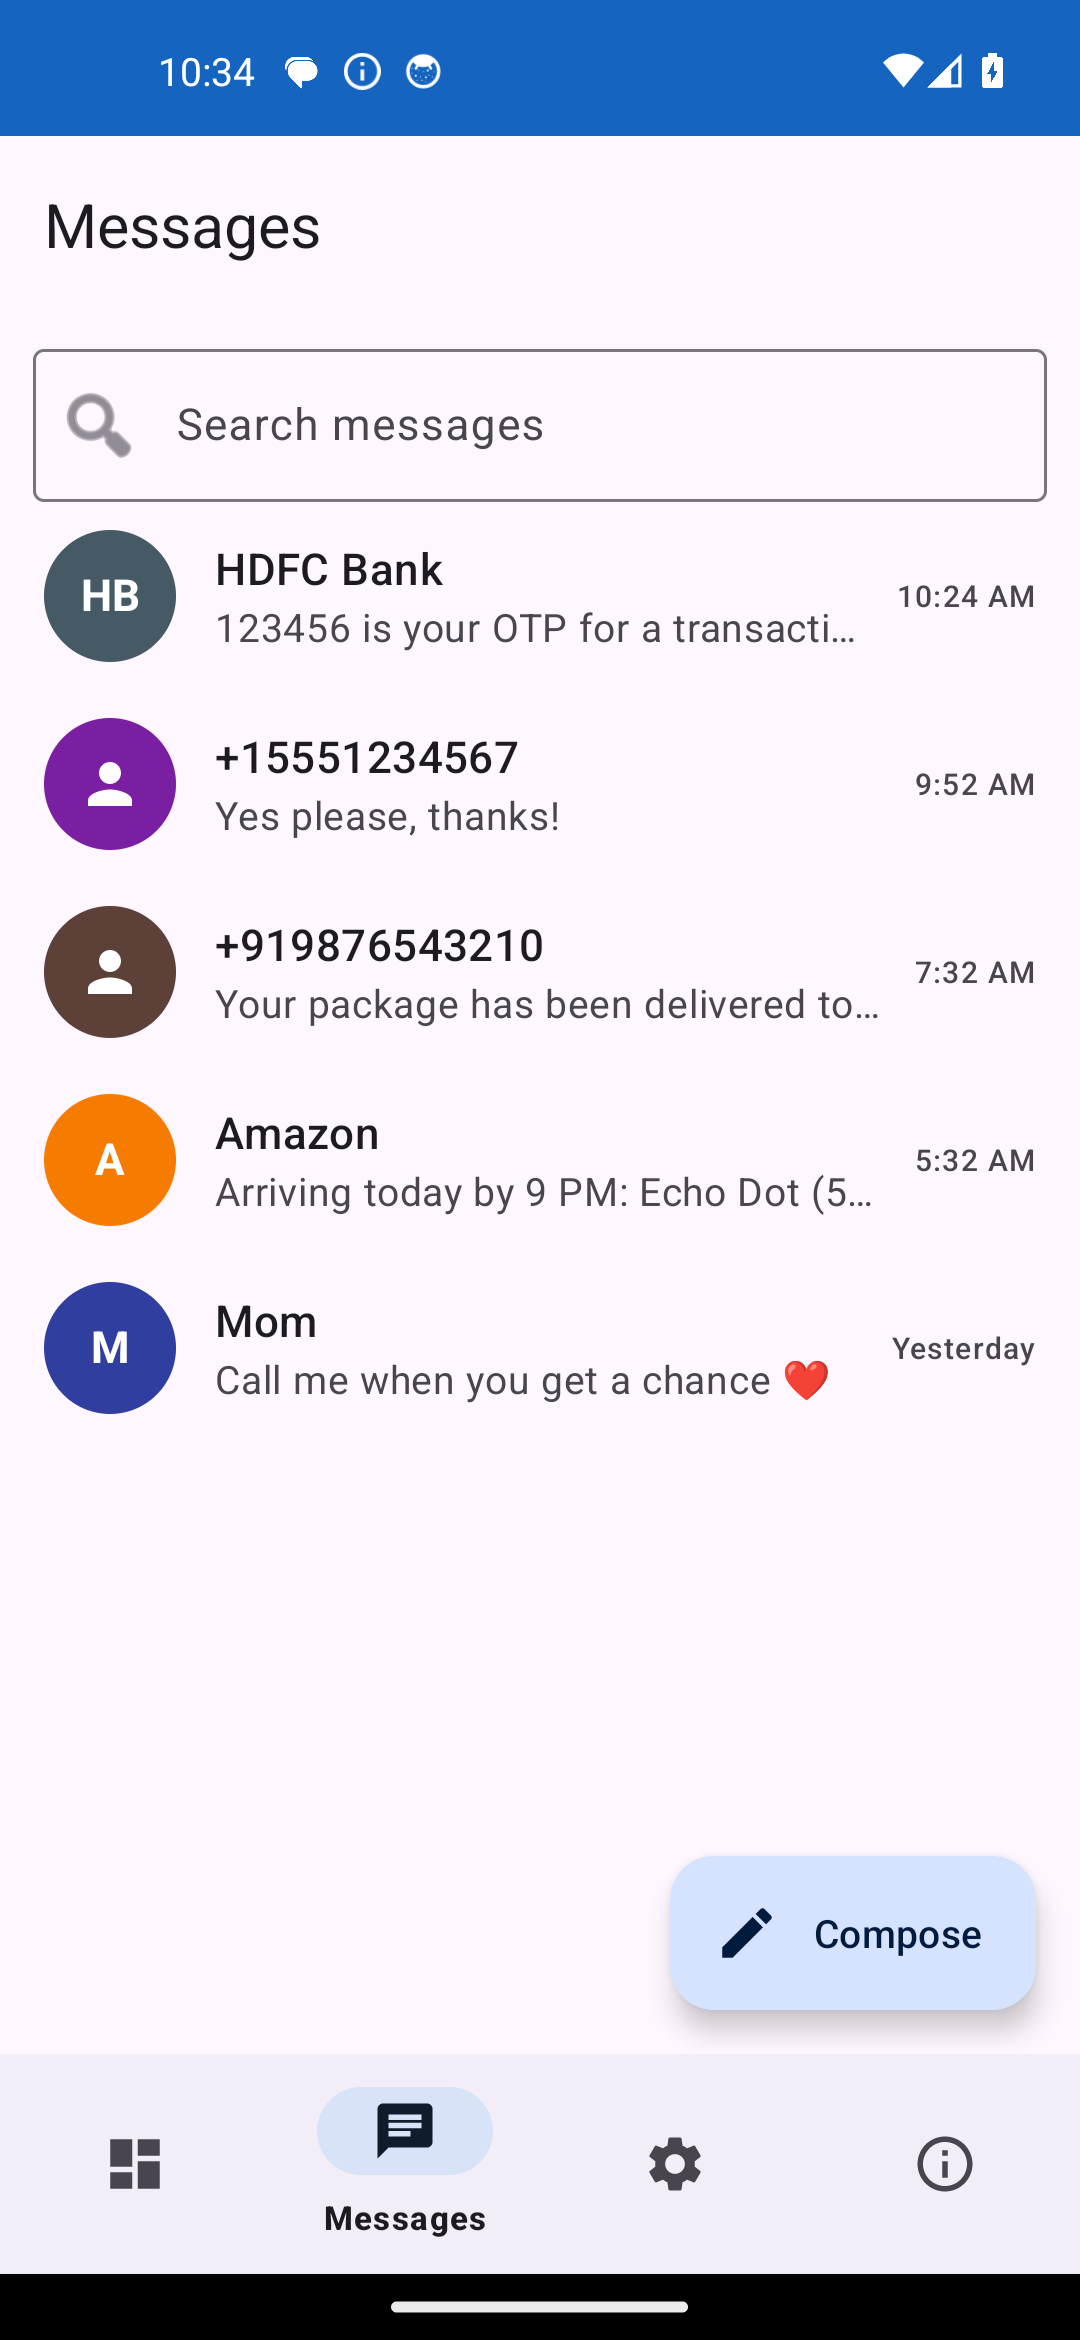
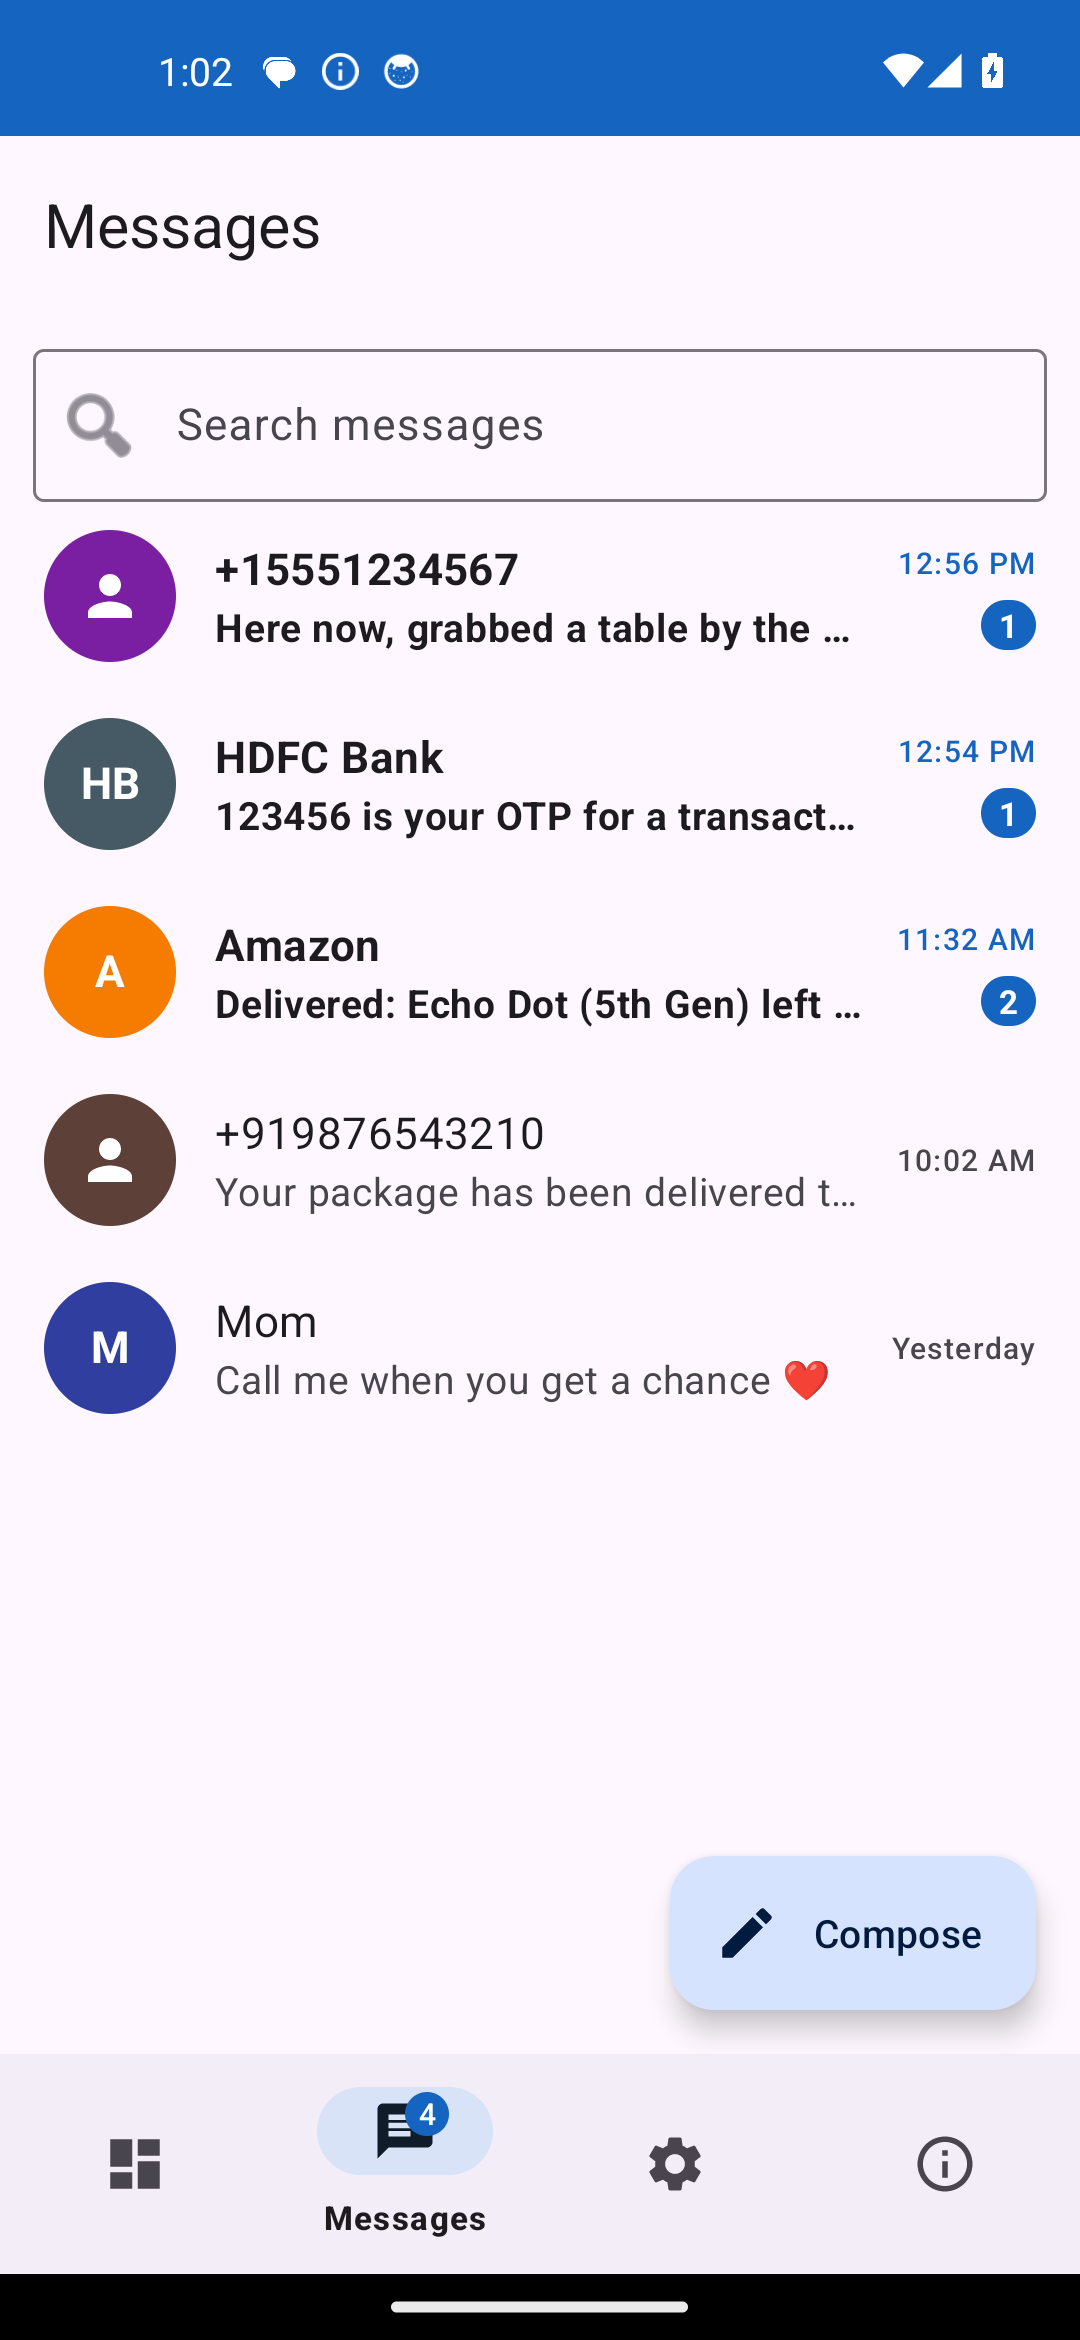
Read/unread state + further chat polish
- Track a read flag per message (DB v3→v4). Unread conversations show bold with
  a count badge and an accent timestamp; the Messages tab carries a total-unread
  badge. Opening a chat marks it read.
- Chat screen polish: a rounded filled compose field with a circular send button
  (replacing the outlined box), width-capped bubbles, and tighter same-sender
  grouping with more air on sender changes.

DAO gains markRead/totalUnread + unread in the conversation summary, with tests;
MigrationTest covers v3→v4. Bumps ippu to v1.18 (19).

diff --git a/app/src/main/kotlin/com/noti/logger/ui/ChatActivity.kt b/app/src/main/kotlin/com/noti/logger/ui/ChatActivity.kt
@@ -88,7 +88,7 @@ class ChatActivity : AppCompatActivity() {
     }
 
     private fun sendComposed() {
-        val field = findViewById<com.google.android.material.textfield.TextInputEditText>(R.id.et_compose)
+        val field = findViewById<android.widget.EditText>(R.id.et_compose)
         val text = field.text?.toString()?.trim().orEmpty()
         if (text.isEmpty()) return
         if (!NotiCommandSender.isConfigured(Settings.get(this))) {
@@ -119,7 +119,10 @@ class ChatActivity : AppCompatActivity() {
     private fun load() {
         lifecycleScope.launch {
             val messages = withContext(Dispatchers.IO) {
-                NotiDatabase.get(this@ChatActivity).relayedMessageDao().messagesFor(sender)
+                val dao = NotiDatabase.get(this@ChatActivity).relayedMessageDao()
+                val msgs = dao.messagesFor(sender)
+                dao.markRead(sender) // viewing the conversation clears its unread state
+                msgs
             }
             adapter.submit(messages)
             if (highlightId > 0) {
@@ -257,18 +260,31 @@ class ChatActivity : AppCompatActivity() {
         override fun onBindViewHolder(holder: RecyclerView.ViewHolder, position: Int) {
             when (val row = rows[position]) {
                 is Row.Day -> (holder as DayVH).date.text = row.label
-                is Row.Msg -> bindMessage(holder as MessageVH, row.message)
+                is Row.Msg -> {
+                    val prev = rows.getOrNull(position - 1)
+                    val grouped = prev is Row.Msg && prev.message.outgoing == row.message.outgoing
+                    bindMessage(holder as MessageVH, row.message, grouped)
+                }
             }
         }
     }
 
-    private fun bindMessage(holder: MessageVH, m: RelayedMessageEntity) {
+    private fun bindMessage(holder: MessageVH, m: RelayedMessageEntity, groupedWithPrev: Boolean) {
         val outgoing = m.outgoing != 0
         holder.body.text = m.body
         holder.time.text = ChatTime.clock(this, m.receivedAt)
         holder.bubble.setBackgroundResource(if (outgoing) R.drawable.bubble_out else R.drawable.bubble_in)
         (holder.bubble.layoutParams as FrameLayout.LayoutParams).gravity =
             if (outgoing) Gravity.END else Gravity.START
+
+        // Cap the bubble to ~80% of the screen (LinearLayout ignores maxWidth, so bound the text).
+        val metrics = resources.displayMetrics
+        holder.body.maxWidth = (metrics.widthPixels * 0.80f).toInt() - (28f * metrics.density).toInt()
+
+        // Tighter spacing within a run from the same side, more air when the side changes.
+        val h = (12f * metrics.density).toInt()
+        val topGap = ((if (groupedWithPrev) 2f else 8f) * metrics.density).toInt()
+        holder.itemView.setPadding(h, topGap, h, (2f * metrics.density).toInt())
 
         // On the accent outgoing bubble, text is white; incoming uses on-surface tones.
         val bodyColor = MaterialColors.getColor(

diff --git a/app/src/main/kotlin/com/noti/logger/ui/MessagesFragment.kt b/app/src/main/kotlin/com/noti/logger/ui/MessagesFragment.kt
@@ -1,12 +1,14 @@
 package com.noti.logger.ui
 
 import android.content.Intent
+import android.graphics.Typeface
 import android.os.Bundle
 import android.view.LayoutInflater
 import android.view.View
 import android.view.ViewGroup
 import android.widget.ImageView
 import android.widget.TextView
+import com.google.android.material.color.MaterialColors
 import androidx.core.widget.doAfterTextChanged
 import androidx.fragment.app.Fragment
 import androidx.lifecycle.lifecycleScope
@@ -81,10 +83,29 @@ class MessagesFragment : Fragment(R.layout.fragment_messages) {
 
         override fun onBindViewHolder(holder: ConversationVH, position: Int) {
             val c = items[position]
+            val ctx = holder.itemView.context
             holder.sender.text = c.sender
             holder.last.text = c.lastBody
-            holder.time.text = ChatTime.listStamp(holder.itemView.context, c.lastAt)
+            holder.time.text = ChatTime.listStamp(ctx, c.lastAt)
             Avatars.apply(holder.avatar, holder.avatarInitials, holder.avatarIcon, c.sender)
+
+            // Signal-style: an unread conversation gets a bold name, a darker preview, an accent
+            // timestamp, and a count badge; a read one is quieter.
+            val unread = c.unread > 0
+            holder.sender.setTypeface(null, if (unread) Typeface.BOLD else Typeface.NORMAL)
+            holder.last.setTypeface(null, if (unread) Typeface.BOLD else Typeface.NORMAL)
+            val onSurface = MaterialColors.getColor(holder.last, com.google.android.material.R.attr.colorOnSurface)
+            val onSurfaceVariant = MaterialColors.getColor(holder.last, com.google.android.material.R.attr.colorOnSurfaceVariant)
+            val accent = MaterialColors.getColor(holder.time, com.google.android.material.R.attr.colorPrimary)
+            holder.last.setTextColor(if (unread) onSurface else onSurfaceVariant)
+            holder.time.setTextColor(if (unread) accent else onSurfaceVariant)
+            if (unread) {
+                holder.unread.visibility = View.VISIBLE
+                holder.unread.text = if (c.unread > 99) "99+" else c.unread.toString()
+            } else {
+                holder.unread.visibility = View.GONE
+            }
+
             holder.itemView.setOnClickListener { onClick(c.sender) }
         }
     }
@@ -93,6 +114,7 @@ class MessagesFragment : Fragment(R.layout.fragment_messages) {
         val sender: TextView = v.findViewById(R.id.txt_sender)
         val last: TextView = v.findViewById(R.id.txt_last)
         val time: TextView = v.findViewById(R.id.txt_time)
+        val unread: TextView = v.findViewById(R.id.txt_unread)
         val avatar: View = v.findViewById(R.id.avatar)
         val avatarInitials: TextView = v.findViewById(R.id.avatar_initials)
         val avatarIcon: ImageView = v.findViewById(R.id.avatar_icon)

diff --git a/app/src/main/kotlin/com/noti/logger/data/RelayedMessageDao.kt b/app/src/main/kotlin/com/noti/logger/data/RelayedMessageDao.kt
@@ -10,13 +10,14 @@ interface RelayedMessageDao {
     @Insert
     fun insert(message: RelayedMessageEntity): Long
 
-    /** One row per conversation: sender, its latest message body/time, and message count. */
+    /** One row per conversation: sender, its latest message body/time, total count, and unread count. */
     @Query(
         """
         SELECT m.sender AS sender,
                (SELECT body FROM relayed_messages i WHERE i.sender = m.sender ORDER BY receivedAt DESC, id DESC LIMIT 1) AS lastBody,
                MAX(m.receivedAt) AS lastAt,
-               COUNT(*) AS count
+               COUNT(*) AS count,
+               SUM(CASE WHEN m.outgoing = 0 AND m.read = 0 THEN 1 ELSE 0 END) AS unread
         FROM relayed_messages m
         GROUP BY m.sender
         ORDER BY lastAt DESC
@@ -30,7 +31,8 @@ interface RelayedMessageDao {
         SELECT m.sender AS sender,
                (SELECT body FROM relayed_messages i WHERE i.sender = m.sender ORDER BY receivedAt DESC, id DESC LIMIT 1) AS lastBody,
                MAX(m.receivedAt) AS lastAt,
-               COUNT(*) AS count
+               COUNT(*) AS count,
+               SUM(CASE WHEN m.outgoing = 0 AND m.read = 0 THEN 1 ELSE 0 END) AS unread
         FROM relayed_messages m
         WHERE m.sender LIKE '%' || :q || '%'
            OR EXISTS (SELECT 1 FROM relayed_messages b WHERE b.sender = m.sender AND b.body LIKE '%' || :q || '%')
@@ -49,4 +51,12 @@ interface RelayedMessageDao {
 
     @Query("DELETE FROM relayed_messages WHERE id = :id")
     fun deleteMessage(id: Long)
+
+    /** Marks every incoming message in a conversation as read. Returns rows changed. */
+    @Query("UPDATE relayed_messages SET read = 1 WHERE sender = :sender AND outgoing = 0 AND read = 0")
+    fun markRead(sender: String): Int
+
+    /** Total unread incoming messages across all conversations (for the tab badge). */
+    @Query("SELECT COUNT(*) FROM relayed_messages WHERE outgoing = 0 AND read = 0")
+    fun totalUnread(): Int
 }

diff --git a/app/src/main/kotlin/com/noti/logger/ui/MainActivity.kt b/app/src/main/kotlin/com/noti/logger/ui/MainActivity.kt
@@ -7,10 +7,16 @@ import androidx.core.splashscreen.SplashScreen.Companion.installSplashScreen
 import androidx.core.view.ViewCompat
 import androidx.core.view.WindowInsetsCompat
 import androidx.fragment.app.Fragment
+import androidx.lifecycle.lifecycleScope
 import com.google.android.material.appbar.AppBarLayout
 import com.google.android.material.bottomnavigation.BottomNavigationView
+import com.google.android.material.color.MaterialColors
 import com.noti.logger.R
+import com.noti.logger.data.NotiDatabase
 import com.noti.logger.util.Theming
+import kotlinx.coroutines.Dispatchers
+import kotlinx.coroutines.launch
+import kotlinx.coroutines.withContext
 
 /** Bottom-nav host: Status / Settings / About tabs. */
 class MainActivity : AppCompatActivity() {
@@ -40,6 +46,30 @@ class MainActivity : AppCompatActivity() {
         }
 
         requestNotificationPermissionIfNeeded()
+    }
+
+    override fun onResume() {
+        super.onResume()
+        updateMessagesBadge()
+    }
+
+    /** Shows the total unread count as a badge on the Messages tab (Signal-style). */
+    private fun updateMessagesBadge() {
+        val bottomNav = findViewById<BottomNavigationView>(R.id.bottom_nav)
+        lifecycleScope.launch {
+            val unread = withContext(Dispatchers.IO) {
+                NotiDatabase.get(this@MainActivity).relayedMessageDao().totalUnread()
+            }
+            if (unread > 0) {
+                bottomNav.getOrCreateBadge(R.id.nav_messages).apply {
+                    isVisible = true
+                    number = unread
+                    backgroundColor = MaterialColors.getColor(bottomNav, com.google.android.material.R.attr.colorPrimary)
+                }
+            } else {
+                bottomNav.removeBadge(R.id.nav_messages)
+            }
+        }
     }
 
     private fun show(fragment: Fragment, titleRes: Int) {

diff --git a/app/src/androidTest/kotlin/com/noti/logger/RelayedMessageDaoTest.kt b/app/src/androidTest/kotlin/com/noti/logger/RelayedMessageDaoTest.kt
@@ -79,4 +79,24 @@ class RelayedMessageDaoTest {
         assertEquals(listOf("keep"), dao.messagesFor("+111").map { it.body })
         assertEquals(keep, dao.messagesFor("+111").single().id)
     }
+
+    @Test
+    fun unread_counts_only_incoming_unread_and_markRead_clears_them() {
+        dao.insert(msg("+111", "in-a", 100))                                   // unread
+        dao.insert(msg("+111", "in-b", 200))                                   // unread
+        dao.insert(RelayedMessageEntity(sender = "+111", sim = "", body = "mine", receivedAt = 300, outgoing = 1)) // outgoing, never counts
+        dao.insert(msg("+222", "other", 150))                                  // unread, different convo
+
+        val before = dao.conversations().associateBy { it.sender }
+        assertEquals(2, before["+111"]!!.unread)
+        assertEquals(1, before["+222"]!!.unread)
+        assertEquals(3, dao.totalUnread())
+
+        assertEquals("two incoming rows marked", 2, dao.markRead("+111"))
+        val after = dao.conversations().associateBy { it.sender }
+        assertEquals(0, after["+111"]!!.unread)
+        assertEquals(1, after["+222"]!!.unread)   // untouched
+        assertEquals(1, dao.totalUnread())
+        assertEquals("marking again is a no-op", 0, dao.markRead("+111"))
+    }
 }

diff --git a/app/src/main/kotlin/com/noti/logger/data/NotiDatabase.kt b/app/src/main/kotlin/com/noti/logger/data/NotiDatabase.kt
@@ -9,7 +9,7 @@ import androidx.sqlite.db.SupportSQLiteDatabase
 
 @Database(
     entities = [NotificationEntity::class, RelayedMessageEntity::class],
-    version = 3,
+    version = 4,
     exportSchema = false,
 )
 abstract class NotiDatabase : RoomDatabase() {
@@ -49,13 +49,20 @@ abstract class NotiDatabase : RoomDatabase() {
             }
         }
 
+        /** v3 → v4: add a read flag to relayed_messages. Existing rows count as already read. */
+        val MIGRATION_3_4 = object : Migration(3, 4) {
+            override fun migrate(db: SupportSQLiteDatabase) {
+                db.execSQL("ALTER TABLE relayed_messages ADD COLUMN read INTEGER NOT NULL DEFAULT 1")
+            }
+        }
+
         fun get(context: Context): NotiDatabase {
             return INSTANCE ?: synchronized(this) {
                 INSTANCE ?: Room.databaseBuilder(
                     context.applicationContext,
                     NotiDatabase::class.java,
                     "noti.db"
-                ).addMigrations(MIGRATION_1_2, MIGRATION_2_3).build().also { INSTANCE = it }
+                ).addMigrations(MIGRATION_1_2, MIGRATION_2_3, MIGRATION_3_4).build().also { INSTANCE = it }
             }
         }
     }

diff --git a/app/src/main/kotlin/com/noti/logger/data/RelayedMessageEntity.kt b/app/src/main/kotlin/com/noti/logger/data/RelayedMessageEntity.kt
@@ -20,12 +20,15 @@ data class RelayedMessageEntity(
     val body: String,
     val receivedAt: Long,
     val outgoing: Int = 0,
+    /** 0 = unread, 1 = read. Only meaningful for incoming (outgoing == 0) messages. */
+    val read: Int = 0,
 )
 
-/** One conversation row: the sender, its most recent message/time, and how many messages it has. */
+/** One conversation row: the sender, its most recent message/time, count, and unread count. */
 data class ConversationSummary(
     val sender: String,
     val lastBody: String,
     val lastAt: Long,
     val count: Int,
+    val unread: Int,
 )

diff --git a/app/src/androidTest/kotlin/com/noti/logger/MigrationTest.kt b/app/src/androidTest/kotlin/com/noti/logger/MigrationTest.kt
@@ -52,7 +52,7 @@ class MigrationTest {
 
         // ---- Open with Room + migrations to the current version; Room validates the schema ----
         val db = Room.databaseBuilder(ctx, NotiDatabase::class.java, dbName)
-            .addMigrations(NotiDatabase.MIGRATION_1_2, NotiDatabase.MIGRATION_2_3)
+            .addMigrations(NotiDatabase.MIGRATION_1_2, NotiDatabase.MIGRATION_2_3, NotiDatabase.MIGRATION_3_4)
             .build()
         runBlocking {
             val dao = db.notificationDao()
